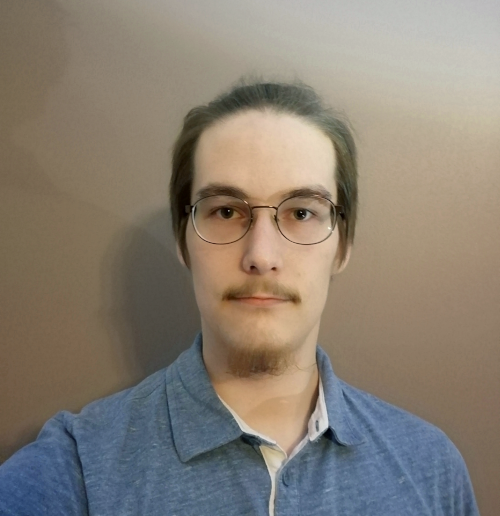
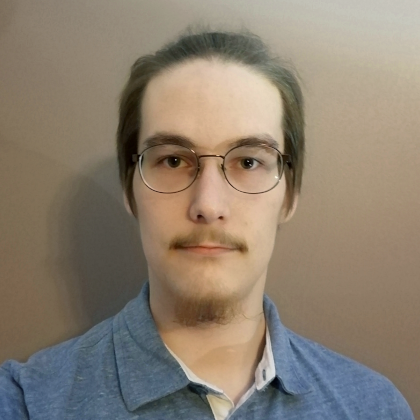
fix typo in profile image tag, change profile image

Changed region(s): [[0.0, 0.031, 0.9905, 1.0], [0.2167, 0.8048, 0.2786, 0.8976]]

diff --git a/index.html b/index.html
@@ -30,7 +30,7 @@
     <a class="navbar-brand js-scroll-trigger" href="#page-top">
       <span class="d-block d-lg-none">Petteri Zitting</span>
       <span class="d-none d-lg-block">
-        <img class="img-fluid img-profile rounded-circle mx-auto mb-2" src="img/profile.jpg" alt="">
+        <img class="img-fluid img-profile rounded-circle mx-auto mb-2" src="img/profile.png" alt="">
       </span>
     </a>
     <button class="navbar-toggler" type="button" data-toggle="collapse" data-target="#navbarSupportedContent"
